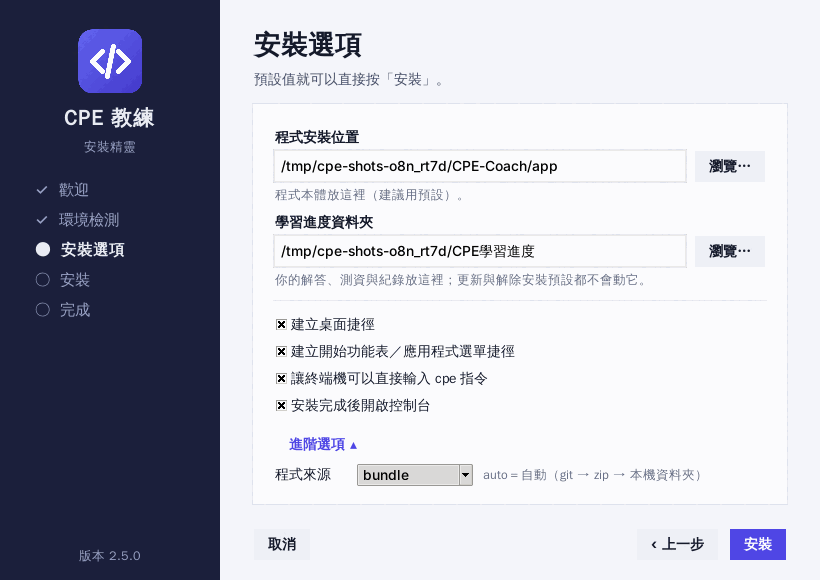
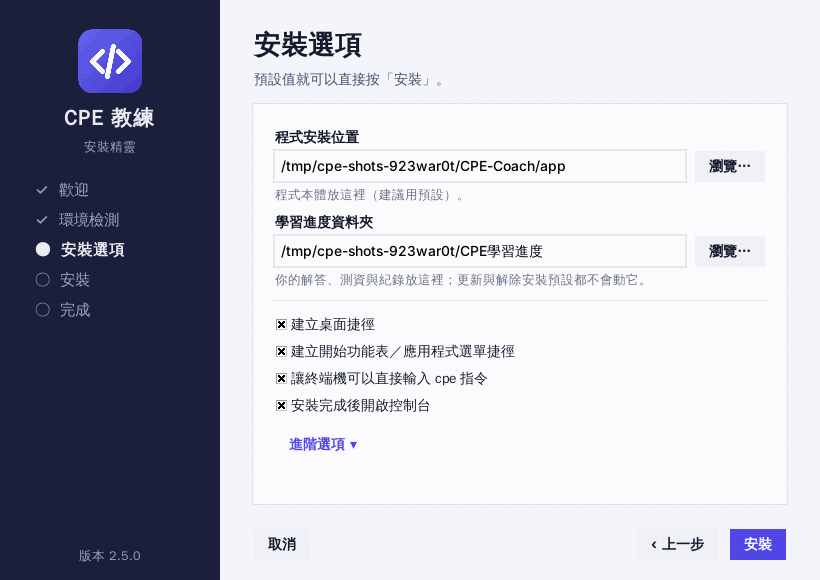
Fix CI findings: brace shell variables next to Chinese text, scrollable wizard pages, root-only test assumption
- bootstrap.sh / install-macos.command: "$OS）" made bash 3.2 (macOS sh, non-UTF-8 locale) read the full-width
  parenthesis as part of the variable name (unbound variable). Variables in messages are now ${name}; a test scans for it.
- Wizard welcome/options and the uninstall page sit in a scrollable frame, so with large fonts or a small screen the
  advanced options and buttons are still reachable; the window is never taller than the screen; mouse wheel works anywhere
  over the frame; the scrollbar no longer flashes while the layout is computed.
- test: the "healthy machine" check used a fake path that only passes os.access for root.
- docs screenshots regenerated (collapsed options page).

Claude-Session: https://claude.ai/code/session_016bLDkyFSYN4J1TNKrga57r

diff --git a/cpe_coach/launcher/gui.py b/cpe_coach/launcher/gui.py
@@ -154,7 +154,9 @@ class Runner:
 
 
 class ScrollFrame(tk.Frame):
-    """內容比視窗高時可以捲動（滑鼠滾輪也行）。把東西放進 .inner。"""
+    """內容比視窗高時可以捲動（滑鼠滾輪在框內任何位置都有用）。把東西放進 .inner。
+    字體大、螢幕小的時候，頁面內容放不下也不會有按鈕被切掉而點不到。"""
+    WHEEL = ("<MouseWheel>", "<Button-4>", "<Button-5>")
 
     def __init__(self, master: tk.Misc, bg: str):
         super().__init__(master, bg=bg)
@@ -165,14 +167,18 @@ class ScrollFrame(tk.Frame):
         self.canvas.configure(yscrollcommand=self.bar.set)
         self.canvas.pack(side="left", fill="both", expand=True)
         self.inner.bind("<Configure>", self._sync)
-        self.canvas.bind("<Configure>", lambda e: self.canvas.itemconfigure(self.win, width=e.width))
-        for w in (self.canvas, self.inner):
-            w.bind("<MouseWheel>", self._wheel)
-            w.bind("<Button-4>", lambda e: self.canvas.yview_scroll(-2, "units"))
-            w.bind("<Button-5>", lambda e: self.canvas.yview_scroll(2, "units"))
+        self.canvas.bind("<Configure>", self._resize)
+        for seq in self.WHEEL:
+            self.bind_all(seq, self._wheel, add="+")
+
+    def _resize(self, e: tk.Event) -> None:
+        self.canvas.itemconfigure(self.win, width=e.width)
+        self._sync()
 
     def _sync(self, _e: Optional[tk.Event] = None) -> None:
         self.canvas.configure(scrollregion=self.canvas.bbox("all"))
+        if self.canvas.winfo_height() <= 1:
+            return                                                                 # 版面還沒算好：先不要讓捲軸閃一下
         need = self.inner.winfo_reqheight() > self.canvas.winfo_height()
         if need and not self.bar.winfo_ismapped():
             self.bar.pack(side="right", fill="y", before=self.canvas)
@@ -180,11 +186,26 @@ class ScrollFrame(tk.Frame):
             self.bar.pack_forget()
 
     def _wheel(self, e: tk.Event) -> None:
-        self.canvas.yview_scroll(-1 if e.delta > 0 else 1, "units")
+        if not self.winfo_exists() or not self.bar.winfo_ismapped():
+            return
+        under = self.winfo_containing(*self.winfo_pointerxy())
+        if under is None or not str(under).startswith(str(self)):
+            return                                                                 # 滑鼠不在這個框裡
+        step = -1 if (getattr(e, "num", 0) == 4 or getattr(e, "delta", 0) > 0) else 1
+        self.canvas.yview_scroll(step, "units")
+
+    def destroy(self) -> None:
+        for seq in self.WHEEL:
+            try:
+                self.unbind_all(seq)
+            except tk.TclError:
+                pass
+        super().destroy()
 
 
 def center(win: tk.Tk, w: int, h: int) -> None:
     win.update_idletasks()
+    w, h = min(w, win.winfo_screenwidth() - 40), min(h, win.winfo_screenheight() - 90)        # 小螢幕（例如 1366×768 放大 125%）也放得下
     x, y = max(0, (win.winfo_screenwidth() - w) // 2), max(0, (win.winfo_screenheight() - h) // 3)
     win.geometry(f"{w}x{h}+{x}+{y}")
 
@@ -205,7 +226,7 @@ class GuiApp:
         self.th = Theme(self.root, plat.system)
         self.runner = Runner(self.root, plat)
         self.root.configure(bg=PAL["bg"])
-        self.root.minsize(760, 520)
+        self.root.minsize(700, 460)
         center(self.root, self.W, self.H)
         self.icon_img: Optional[tk.PhotoImage] = None
         self._style()
@@ -428,6 +449,16 @@ class Wizard:
         f.pack(fill="both", expand=True, padx=20, pady=16)
         return f
 
+    def set_scroll_body(self) -> tk.Frame:
+        """放得下就和 set_body 一樣；放不下（字體大、螢幕小）就出現捲軸。"""
+        for w in self.body.winfo_children():
+            w.destroy()
+        sf = ScrollFrame(self.body, PAL["surface"])
+        sf.pack(fill="both", expand=True, padx=8, pady=6)
+        f = tk.Frame(sf.inner, bg=PAL["surface"])
+        f.pack(fill="both", expand=True, padx=12, pady=10)
+        return f
+
     def goto(self, n: int) -> None:
         self.page = n
         self.mark_steps()
@@ -473,7 +504,7 @@ class Wizard:
     def page_welcome(self) -> None:
         self.head.configure(text=f"歡迎使用 {C.APP_NAME}")
         self.sub.configure(text="這個精靈會檢測你的電腦、自動補齊需要的元件，然後把 CPE 教練安裝好。整個過程大約一到兩分鐘。")
-        f = self.set_body()
+        f = self.set_scroll_body()
         items = [("自動檢測環境", "Python、git、網路、磁碟空間、C++ 編譯器…缺什麼會告訴你，能自動安裝的幫你裝。"),
                  ("安裝後有控制台", "桌面與開始功能表的捷徑會開啟控制台：按「開啟」開始學習、按「關閉」結束，也能更新、備份、修復與解除安裝。"),
                  ("學習進度另外放", "你的解答與紀錄放在獨立的資料夾，更新或解除安裝都不會動到它（除非你自己選要刪除）。")]
@@ -586,7 +617,7 @@ class Wizard:
         self.head.configure(text="安裝選項")
         self.sub.configure(text="預設值就可以直接按「安裝」。")
         self.btn_next.set_text("安裝")
-        f = self.set_body()
+        f = self.set_scroll_body()
 
         def path_row(label: str, var: tk.StringVar, hint: str, pick) -> None:
             tk.Label(f, text=label, bg=PAL["surface"], fg=PAL["text"], font=self.th.f(10, True), anchor="w").pack(fill="x", pady=(6, 0))
@@ -1297,8 +1328,10 @@ class UninstallView:
         self.btn_go.pack(side="right")
         self.body = tk.Frame(right, bg=PAL["surface"], highlightthickness=1, highlightbackground=PAL["border"])
         self.body.pack(fill="both", expand=True, padx=32, pady=(0, 4))
-        f = tk.Frame(self.body, bg=PAL["surface"])
-        f.pack(fill="both", expand=True, padx=20, pady=14)
+        sf = ScrollFrame(self.body, PAL["surface"])
+        sf.pack(fill="both", expand=True, padx=8, pady=6)
+        f = tk.Frame(sf.inner, bg=PAL["surface"])
+        f.pack(fill="both", expand=True, padx=12, pady=8)
         self.inner = f
         c = self.cfg
         rows = [("程式", c.app_dir), ("捷徑", f"{len(c.shortcuts)} 個（桌面、開始功能表）"), ("終端機指令 cpe", "移除")]

diff --git a/tests/test_launcher_gui.py b/tests/test_launcher_gui.py
@@ -40,6 +40,11 @@ def setUpModule():
         raise unittest.SkipTest(why)
 
 
+def ttk_spinbox_type():
+    from tkinter import ttk
+    return ttk.Spinbox
+
+
 def walk(w):
     yield w
     for c in w.winfo_children():
@@ -333,6 +338,30 @@ class WizardTests(GuiBase):
         w.toggle_adv()
         app.root.update()
         self.assertFalse(w.adv.winfo_ismapped())
+
+    def test_pages_stay_reachable_with_very_large_fonts_on_a_small_screen(self):
+        """字體很大時，選項頁放不下：進階選項與所有按鈕還是要點得到（用捲軸）；視窗也不會比螢幕高。"""
+        app = self.open()
+        app.root.tk.call("tk", "scaling", 2.6)
+        w = app.view
+        w.btn_next.invoke()
+        self.assertTrue(app.pump(lambda: bool(w.checks) and not w.busy, 30))
+        w.btn_next.invoke()
+        self.assertEqual(w.page, 2)
+        w.toggle_adv()
+        app.root.update()
+        app.root.update()
+        self.assertTrue(w.adv.winfo_ismapped())
+        scroll = next(x for x in walk(w.body) if isinstance(x, gui.ScrollFrame))
+        overflow = scroll.inner.winfo_reqheight() > scroll.canvas.winfo_height()          # 字體放大多少看這台電腦的 Tk（沒有 Xft 的建置幾乎不會放大）
+        self.assertEqual(scroll.bar.winfo_ismapped(), overflow)                          # 放不下才出現捲軸，放得下就不顯示
+        for b in (w.btn_next, w.btn_back, w.btn_cancel):
+            self.assertTrue(b.winfo_ismapped())
+            self.assertLessEqual(b.winfo_rooty() + b.winfo_height(), app.root.winfo_rooty() + app.root.winfo_height())
+        self.assertLessEqual(app.root.winfo_height(), app.root.winfo_screenheight())
+        scroll.canvas.yview_moveto(1.0)                                               # 捲到最底下還是有東西可點
+        app.root.update()
+        self.assertTrue(any(isinstance(x, ttk_spinbox_type()) for x in walk(w.adv)))
 
     def test_closing_the_window_mid_install_asks_first(self):
         app = self.open()
@@ -694,6 +723,7 @@ class WidgetTests(GuiBase):
         f.place(x=0, y=0, width=200, height=100)
         for i in range(3):
             tk.Label(f.inner, text=str(i)).pack()
+        app.root.update()
         app.root.update()
         self.assertFalse(f.bar.winfo_ismapped())
         for i in range(30):

diff --git a/tests/test_launcher_scripts.py b/tests/test_launcher_scripts.py
@@ -47,6 +47,23 @@ class Formats(unittest.TestCase):
             r = subprocess.run([SH, "-n", str(REPO / name)], capture_output=True)
             self.assertEqual(r.returncode, 0, r.stderr.decode("utf-8", "replace"))
 
+    def test_shell_variables_are_never_glued_to_non_ascii_text(self):
+        """macOS 的 sh（bash 3.2）在非 UTF-8 語系下，會把 $OS）的全形括號當成變數名稱的一部分（unbound variable）：訊息裡的變數都要用 ${名稱}。"""
+        import re
+        for name in ("setup/bootstrap.sh", "install-macos.command", "install-linux.sh"):
+            text = (REPO / name).read_text(encoding="utf-8")
+            bad = re.findall(r"\$[A-Za-z_][A-Za-z0-9_]*(?=[^\x00-\x7f])", text)
+            self.assertEqual(bad, [], f"{name}: 變數後面直接接中文／全形符號，請改成 ${{名稱}}")
+
+    @unittest.skipIf(WINDOWS, "POSIX 啟動檔")
+    def test_bootstrap_survives_a_non_utf8_locale_under_strict_mode(self):
+        """用 C 語系跑（macOS CI 的情況）：不能因為訊息裡的非 ASCII 字元而失敗。"""
+        env = dict(os.environ, LC_ALL="C", LANG="C", HOME=tempfile.gettempdir())
+        r = subprocess.run([SH, str(REPO / "setup" / "bootstrap.sh"), "--check"], capture_output=True, timeout=120, env=env, cwd=tempfile.gettempdir())
+        out = r.stdout.decode("utf-8", "replace") + r.stderr.decode("utf-8", "replace")
+        self.assertEqual(r.returncode, 0, out)
+        self.assertNotIn("unbound variable", out)
+
     def test_launch_files_point_at_the_same_repository_and_branch(self):
         from cpe_coach.launcher import constants
         for name in ("install-windows.bat", "setup/bootstrap.ps1", "setup/bootstrap.sh"):

diff --git a/tests/test_launcher_env.py b/tests/test_launcher_env.py
@@ -31,7 +31,9 @@ def by_id(checks):
 
 class Checks(unittest.TestCase):
     def test_healthy_machine_has_no_blocking_problem(self):
-        c = ctx(plat(DISPLAY=":0"))
+        t = TempDir()                                                         # 安裝位置要是真的可寫的資料夾（只有 root 才會讓假的路徑通過 os.access）
+        self.addCleanup(t.cleanup)
+        c = ctx(plat("linux", str(t.path), DISPLAY=":0"), target=t.path / "app")
         cs = by_id(envcheck.run_checks(c))
         self.assertTrue(envcheck.summarize(list(cs.values()))["ok"])
         self.assertEqual(cs["python"].status, "ok")

diff --git a/dev/launcher_screens.py b/dev/launcher_screens.py
@@ -59,7 +59,6 @@ def main(out_dir: str) -> int:
     w.v_ws.set(str(tmp / "CPE學習進度"))
     w.v_port.set(str(port))
     w.v_source.set("bundle")
-    w.toggle_adv()
     snap(app, "03-options")
     w.btn_next.invoke()
     app.pump(lambda: w.page == 3 and getattr(w, "step_idx", -1) >= 2, 30)
